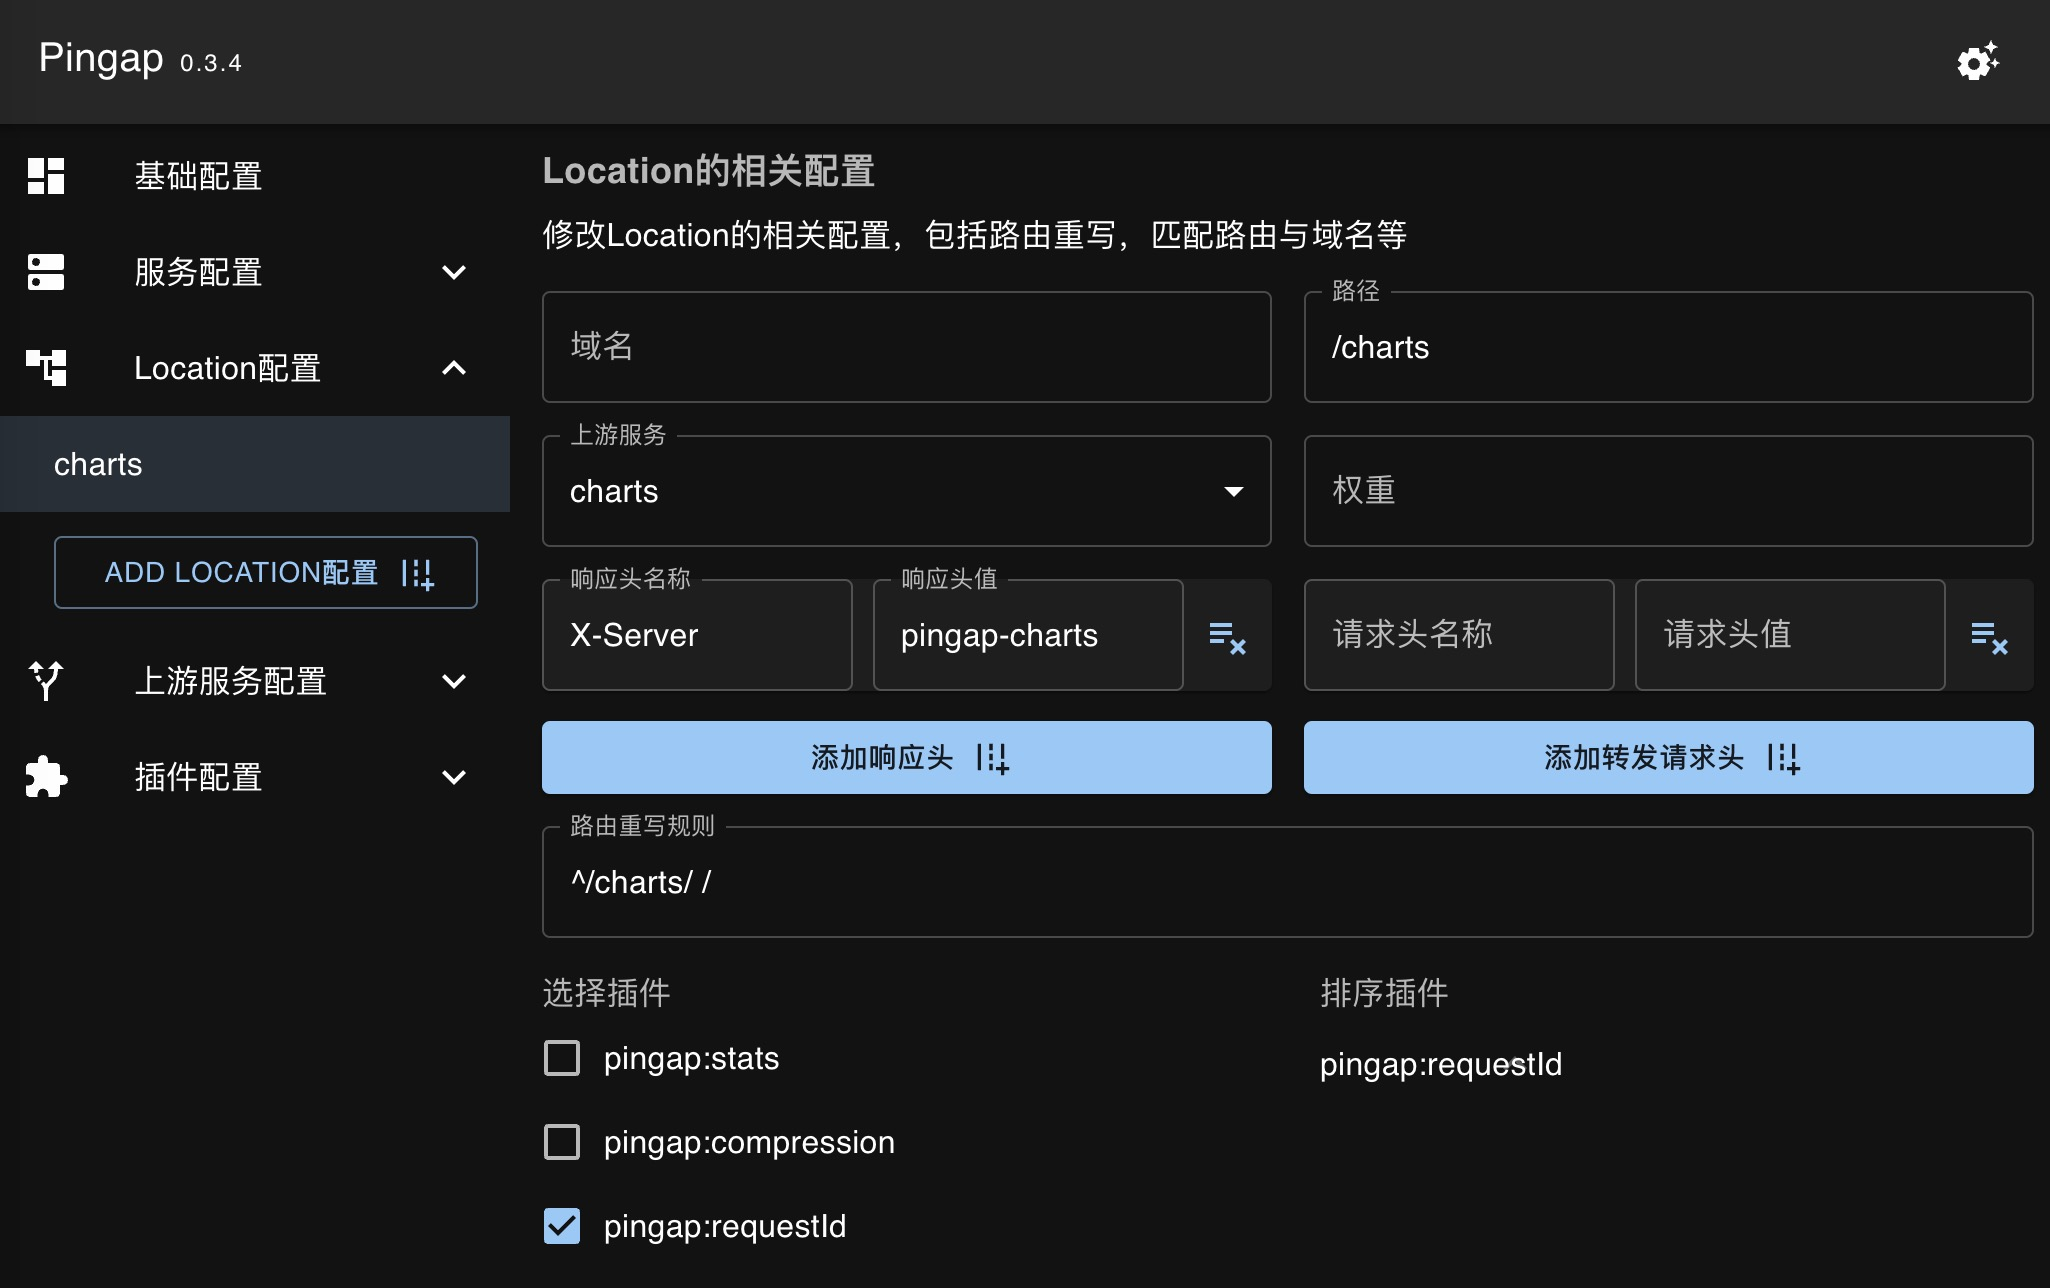
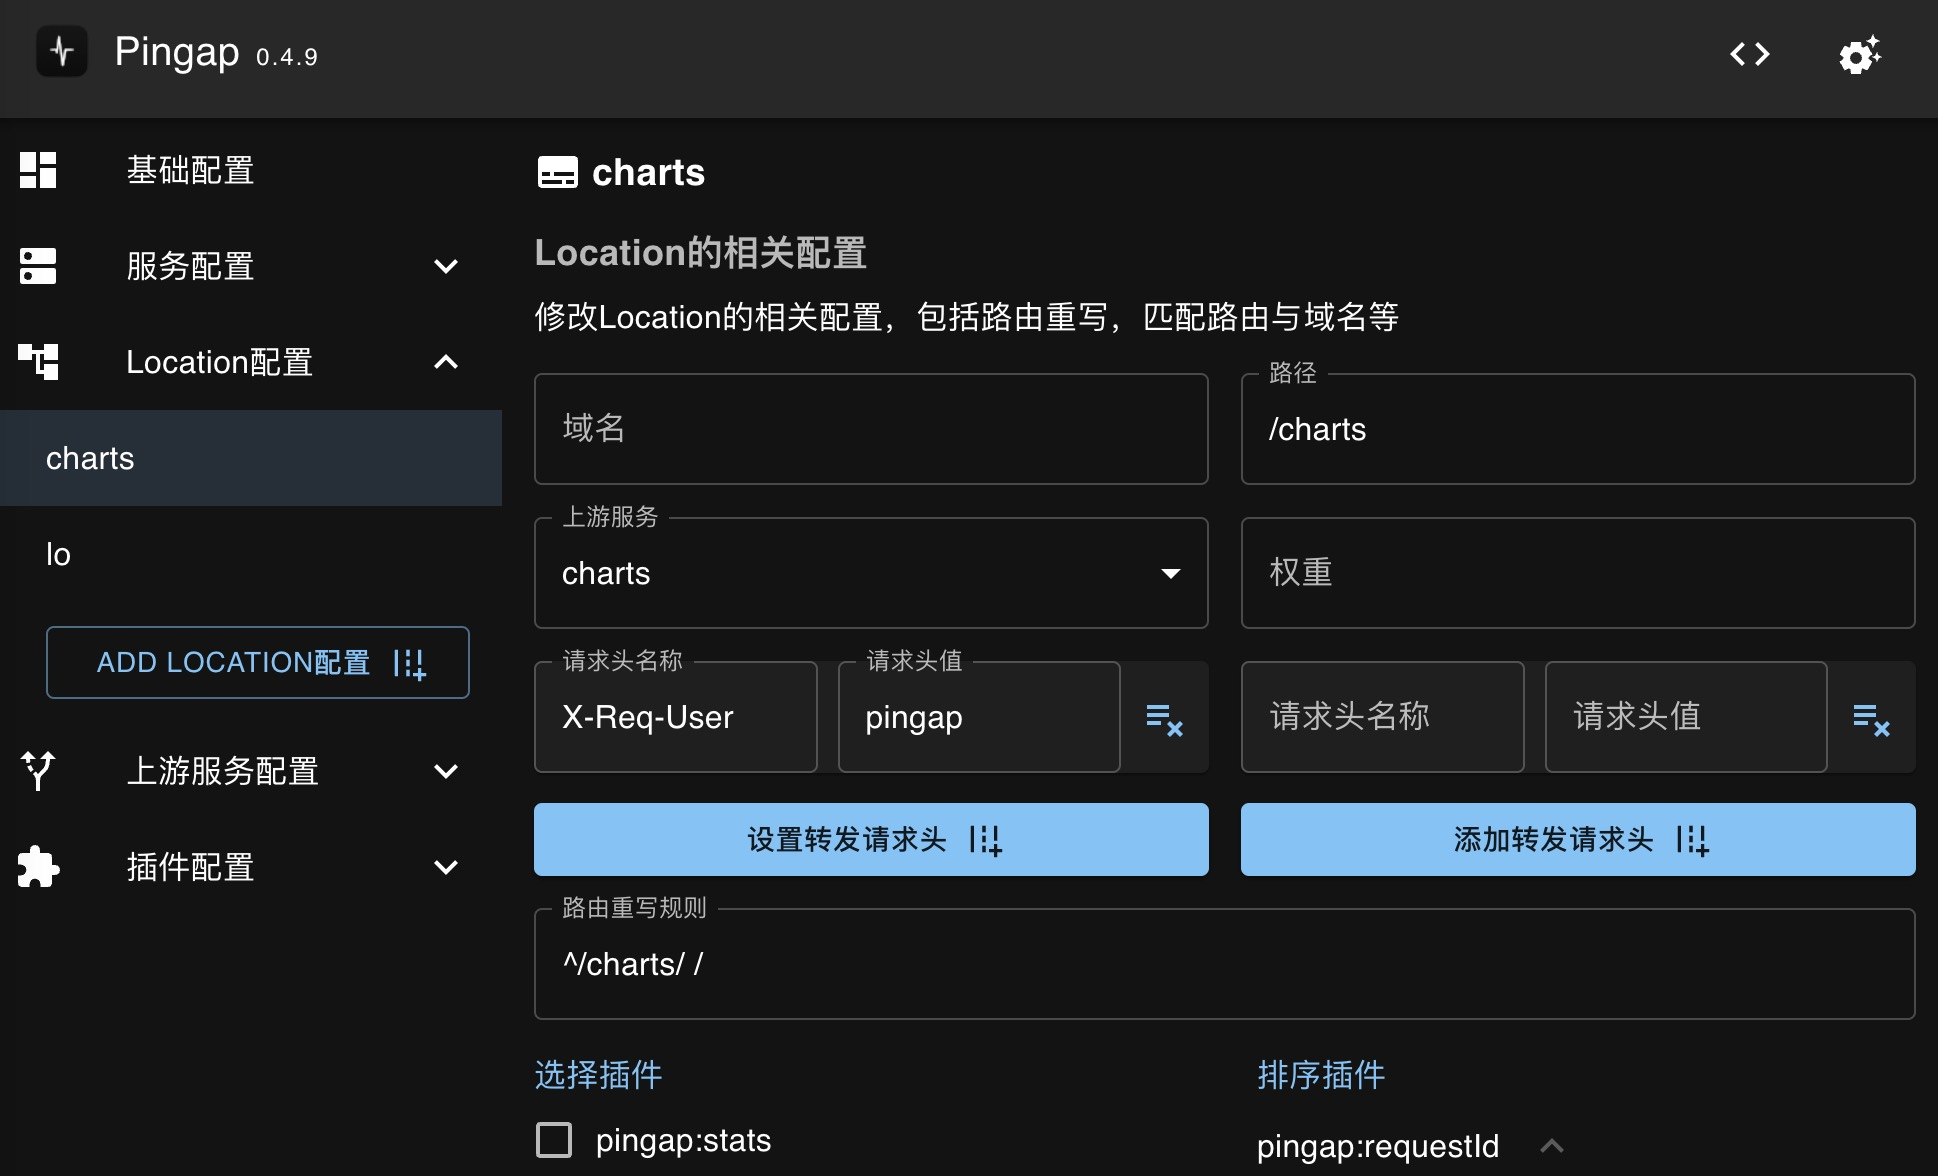
docs: update documents

diff --git a/docs/introduction_zh.md b/docs/introduction_zh.md
@@ -2,9 +2,9 @@
 description: Pingap 简述
 ---
 
-Pingap是基于[pingora](https://github.com/cloudflare/pingora)开发的，pingora提供了各类模块便于rust开发者使用，但并不方便非rust开发者使用，因此pingap提供了以toml的形式配置简单易用的反向代理，实现支持多location代理转发，通过插件的形式支持更多的需求场景。特性如下：
+Pingap是基于[pingora](https://github.com/cloudflare/pingora)开发的，pingora提供了各类模块便于rust开发者使用，但并不方便非rust开发者使用，因此pingap提供了以toml的形式配置简单易用的反向代理，单服务支持多location转发，通过插件的形式支持更多的需求场景。特性如下：
 
-- 支持多location配置，可通过请求的路径与域名筛选
+- 支持多location配置，可通过请求的路径与域名匹配
 - 支持HTTP1与HTTP2两种协议
 - 无中断请求的配置更新，方便实时更新应用配置
 - 模板式的请求日志输出，可按模板指定各种输出
@@ -15,7 +15,7 @@ Pingap是基于[pingora](https://github.com/cloudflare/pingora)开发的，pingo
 
 ## Location的处理逻辑
 
-该Server下的所有location在初始化时根据权重按高至低排序，接受到请求时按顺序一个个匹配到符合的location为止，若无符合的则返回出错。在选择对应的location之后，判断是否有配置重写path(若无则不需要)，添加请求头(若无则不需要)，成功响应时添加响应头(若无则不需要)。
+该Server下的所有location在初始化时根据权重按高至低排序，接收到请求时按顺序一个个匹配到符合的location为止，若无符合的则返回出错。在选择对应的location之后，判断是否有配置重写path(若无则不需要)，添加请求头(若无则不需要)。
 
 ```rust
 let header = session.req_header_mut();

diff --git a/docs/location_zh.md b/docs/location_zh.md
@@ -54,9 +54,9 @@ pub fn get_weight(&self) -> u16 {
 
 一般而言，权重均无需自定义，由规则计算即可。有时可定义一个用于禁用服务的location，其匹配规则为无`host`与`path`限制并指定最高的权重`2048`，在平时并不添加此location，仅在有时需要禁用该Server下所有请求时添加使用。
 
-### 添加请求头与响应头
+### 添加请求头
 
-可按需配置该location对应的请求头与响应头，两个配置的方式均比较简单，需要注意的是，有些`upstream`是需要匹配对应的`Host`的，因此有此要求的则需要在请求头中设置对应的配置`Host:xxx`。
+可按需配置该location对应的请求头，两个配置的方式均比较简单一种是直接添加，一种是设置（若已存在则覆盖），需要注意的是，有些`upstream`是需要匹配对应的`Host`的，有此要求的则需要在请求头中设置对应的配置`Host:xxx`(使用设置而非添加)(使用设置而非添加)(使用设置而非添加)(使用设置而非添加)(使用设置而非添加)(使用设置而非添加)(使用设置而非添加)(使用设置而非添加)。
 
 ### 重写请求路径
 

diff --git a/docs/config_zh.md b/docs/config_zh.md
@@ -20,6 +20,7 @@ Pingap使用toml来配置相关参数，具体参数说明如下：
 - `webhook_type`: Webhook的类型，支持普通的http形式、`webcom`与`dingtalk`三种类型
 - `webhook`: Webhook的请求路径
 - `log_level`: 应用日志的输出级别
+- `log_capacity`: 日志缓存区大小，设置后会以`BufWriter`的形式写入日志
 - `sentry`: Sentry的DSN配置
 - `pyroscope`: Pyroscope连接地址，需要注意默认版本并未编译支持pyroscpe，需要使用perf的版本
 - `auto_restart_check_interval`: 检测配置更新的间隔，默认为每90秒检测一次，若配置为小于1秒的值，则不检测

diff --git a/docs/phase_chart_zh.md b/docs/phase_chart_zh.md
@@ -53,6 +53,7 @@ graph TD;
 Pingap核心部分功能主要处理以下逻辑(由插件实现更丰富的功能)：
 
 - 根据path与host选择对应的location
+- 执行相应的转发中间件
 - location根据配置重写path以及添加相应的请求头
-- location根据配置添加相应的响应头
+- 执行相应的响应中间件
 - 根据配置的日志格式输出对应的访问日志

diff --git a/TODO.md b/TODO.md
@@ -5,6 +5,7 @@
 - [ ] support validate config before save(web)
 - [ ] http response cache(stroage: tinyufo, file, redis, etc)
 - [ ] client body size limit plugin
+- [ ] upstream hasl algo support more options
 - [x] tls validity checker
 - [x] fix not_before not_after of cert
 - [x] http header convert $HOSTNAME for hostname
